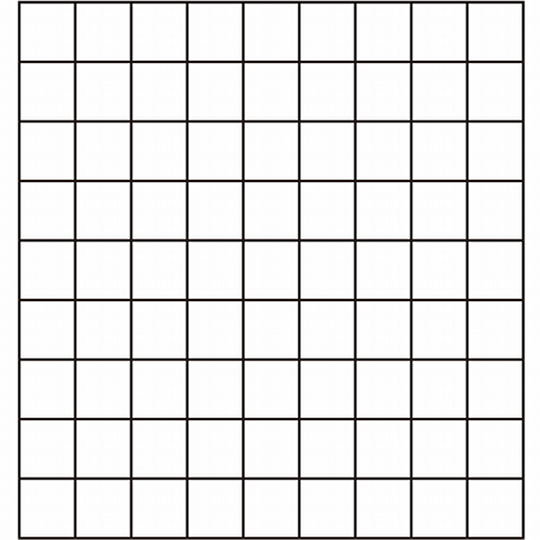
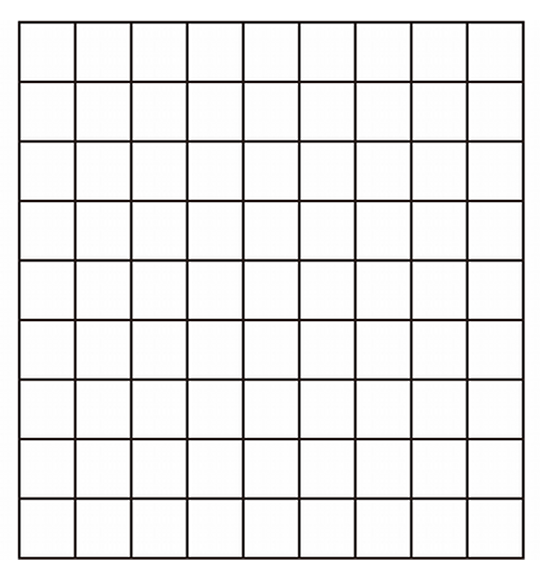
add: finish games if taking gyoku

diff --git a/app/assets/stylesheets/games.css.sass b/app/assets/stylesheets/games.css.sass
@@ -7,6 +7,7 @@
 $cell_size: 51px
 $cell_width: 56px
 $cell_height: 60px
+$edge_cell_height: 20px
 $side_cell_width: 20px
 $piece_size: 40px
 $line_color: #b37100
@@ -23,10 +24,10 @@ $line_color: #b37100
     font-size: 130%
     text-align: center
     font-weight: bold
-    margin: 20px 0
+    margin: 10px 0
   #play_buttons
     @include user-select(none)
-    margin: 20px 0
+    margin: 10px 0
     text-align: center
     a
       @include button(simple)
@@ -41,17 +42,16 @@ $line_color: #b37100
 
 .board_container
   .board
-    margin: 0 auto
+    margin: 10px auto
   .in_hand
     margin: 10px auto
 
 .board
   @include user-select(none)
-  width: $cell_width * 10
-  height: $cell_height * 10
+  width: $cell_width * 9 + $side_cell_width * 2
+  height: $cell_height * 9 + $edge_cell_height * 2
   background-repeat: no-repeat
   background-image: url(/assets/boards/default.png)
-  background-position: 0 ($cell_height / 2)
   .row
     @include clearfix
     .cell
@@ -67,21 +67,25 @@ $line_color: #b37100
     .corner_cell
       @include corner_cell
       width: $side_cell_width
-      height: $cell_height / 2
+      height: $edge_cell_height
     .edge_cell
+      /* top, bottom */
       @include corner_cell
       width: $cell_width
-      height: $cell_height / 2
-      line-height: $cell_height / 2
+      height: $edge_cell_height
+      line-height: $edge_cell_height
     .side_cell
+      /* left, right */
       @include corner_cell
       width: $side_cell_width
       height: $cell_height
       line-height: $cell_height
+
 .in_hand
   @include user-select(none)
-  width: $cell_size * 9 + 2px
-  height: $cell_size
+  width: $cell_width * 9
+  height: $cell_height
+  background-color: #f7f7f7
   .pieces
     .row
       @include clearfix

diff --git a/app/assets/stylesheets/common/_helpers.css.sass b/app/assets/stylesheets/common/_helpers.css.sass
@@ -5,10 +5,17 @@ $max_width: 760px
 $common_width: $max_width
 
 @mixin rotate180
-  -moz-transform: matrix(-1, 0, 0, -1, 0, 0)
-  -webkit-transform: matrix(-1, 0, 0, -1, 0, 0)
-  -o-transform: matrix(-1, 0, 0, -1, 0, 0)
-  transform: matrix(-1, 0, 0, -1, 0, 0)
+  /* FireFox */
+  -moz-transform: rotate(180deg)
+  /* Opera */
+  -o-transform: rotate(180deg)
+  /* webkit */
+  -webkit-transform: rotate(180deg)
+  /* IE9 */
+  -ms-transform: rotate(180deg)
+  /* Older IE */
   filter: progid:DXImageTransform.Microsoft.BasicImage(rotation=2)
+  /* Newer browsers (including IE9) */
+  transform: rotate(180deg)
 
 $all_tags: body, p, pre, ol, ul, li, table, th, td, div, span, h1, h2, h3, h4, h5, h6, dd, dt, dl, article, header, footer, section

diff --git a/app/assets/stylesheets/application.css.sass b/app/assets/stylesheets/application.css.sass
@@ -35,6 +35,7 @@ h3
 p
   margin: 10px 0
 label
+  display: block
   &.must:after
     content: '*'
     color: #f00
@@ -46,6 +47,7 @@ label
     img
       vertical-align: middle
   &.inline
+    display: inline
     font-weight: normal
 
 a

diff --git a/app/models/game.rb b/app/models/game.rb
@@ -15,6 +15,31 @@ class Game
   belongs_to :author, class_name: 'User', inverse_of: :created_games
   before_destroy :destroy_boards
 
+  def check_if_playing
+    if self.playing?
+      board = self.boards.last
+      if board.gyoku_in_sente_hand?
+        # sente win
+        self.won_user = self.sente_user
+        self.lost_user = self.gote_user
+        self.playing = false
+      elsif board.gyoku_in_gote_hand?
+        # gote win
+        self.won_user = self.gote_user
+        self.lost_user = self.sente_user
+        self.playing = false
+      end
+      self.playing?
+    else
+      false
+    end
+  end
+
+  def check_if_playing!
+    check_if_playing
+    save
+  end
+
   def make_board_from_movement(movement)
     number = self.boards.count
     board = self.boards.last.dup
@@ -23,7 +48,12 @@ class Game
     self.boards << board
     self.movements << movement
     self.number = number
-    self.save
+    board
+  end
+
+  def make_board_from_movement!(movement)
+    board = make_board_from_movement(movement)
+    board.save && self.save
   end
 
   def users

diff --git a/app/models/user.rb b/app/models/user.rb
@@ -10,6 +10,7 @@ class User
          :recoverable, :rememberable, :trackable, :validatable,
          :omniauthable
 
+  field :audio_on, type: Boolean, default: true
   field :current_sign_in_at, type: Time
   field :current_sign_in_ip, type: String
   field :facebook_id, type: Integer
@@ -19,12 +20,11 @@ class User
   field :gender, type: String
   field :last_sign_in_at, type: Time
   field :last_sign_in_ip, type: String
-  field :locale, type: String, default: 'ja_JP'
+  field :locale, type: String, default: 'ja'
   field :name, type: String
   field :remember_me, type: Boolean
   field :remember_created_at, type: Time
   field :sign_in_count, type: Integer
-  field :sound_on, type: Boolean, default: true
   field :timezone, type: Integer, default: 9
   field :timezone_string, type: Integer
 

diff --git a/app/controllers/games_controller.rb b/app/controllers/games_controller.rb
@@ -8,12 +8,17 @@ class GamesController < ApplicationController
   # GET /games/1/check_update
   def check_update
     number = @game.boards.count
-    if params[:number].to_i < number
-      render
-    elsif @game.won_user == current_user
+    @game.check_if_playing!
+    if @game.won_user == current_user
       flash[:notice] = t('notices.you_won')
       # only redirect to @game
       render js: "window.location = '#{game_path(@game)}'"
+    elsif @game.lost_user == current_user
+      flash[:notice] = t('notices.you_lost')
+      # only redirect to @game
+      render js: "window.location = '#{game_path(@game)}'"
+    elsif params[:number].to_i < number
+      render
     else
       result = 'NO UPDATE'
       render text: result, content_type: Mime::TEXT

diff --git a/app/decorators/user_decorator.rb b/app/decorators/user_decorator.rb
@@ -3,6 +3,10 @@
 class UserDecorator < ApplicationDecorator
   decorates :user
 
+  def audio_on
+    I18n.t("user.audio")[model.audio_on?]
+  end
+
   def games_count
     model.sente_games.count + model.gote_games.count
   end
@@ -53,10 +57,6 @@ class UserDecorator < ApplicationDecorator
     else
       human_name
     end
-  end
-
-  def sound_on
-    I18n.t("user.sound")[model.sound_on]
   end
 
   def timezone

diff --git a/app/controllers/movements_controller.rb b/app/controllers/movements_controller.rb
@@ -9,7 +9,7 @@ class MovementsController < ApplicationController
   def create
     @movement = Movement.new(params[:movement])
     @movement.game = @game
-    @game.make_board_from_movement(@movement)
+    @game.make_board_from_movement!(@movement)
     respond_to do |format|
       format.js { render text: 'OK', content_type: Mime::TEXT }
       format.html { redirect_to game_path(@game) }

diff --git a/app/models/board.rb b/app/models/board.rb
@@ -84,6 +84,14 @@ class Board
     true
   end
 
+  def gyoku_in_gote_hand?
+    self.pieces.in_gote_hand('gyoku').present?
+  end
+
+  def gyoku_in_sente_hand?
+    self.pieces.in_sente_hand('gyoku').present?
+  end
+
   def piece_in_gote_hand(role = nil)
     self.pieces.in_gote_hand(role).first
   end
